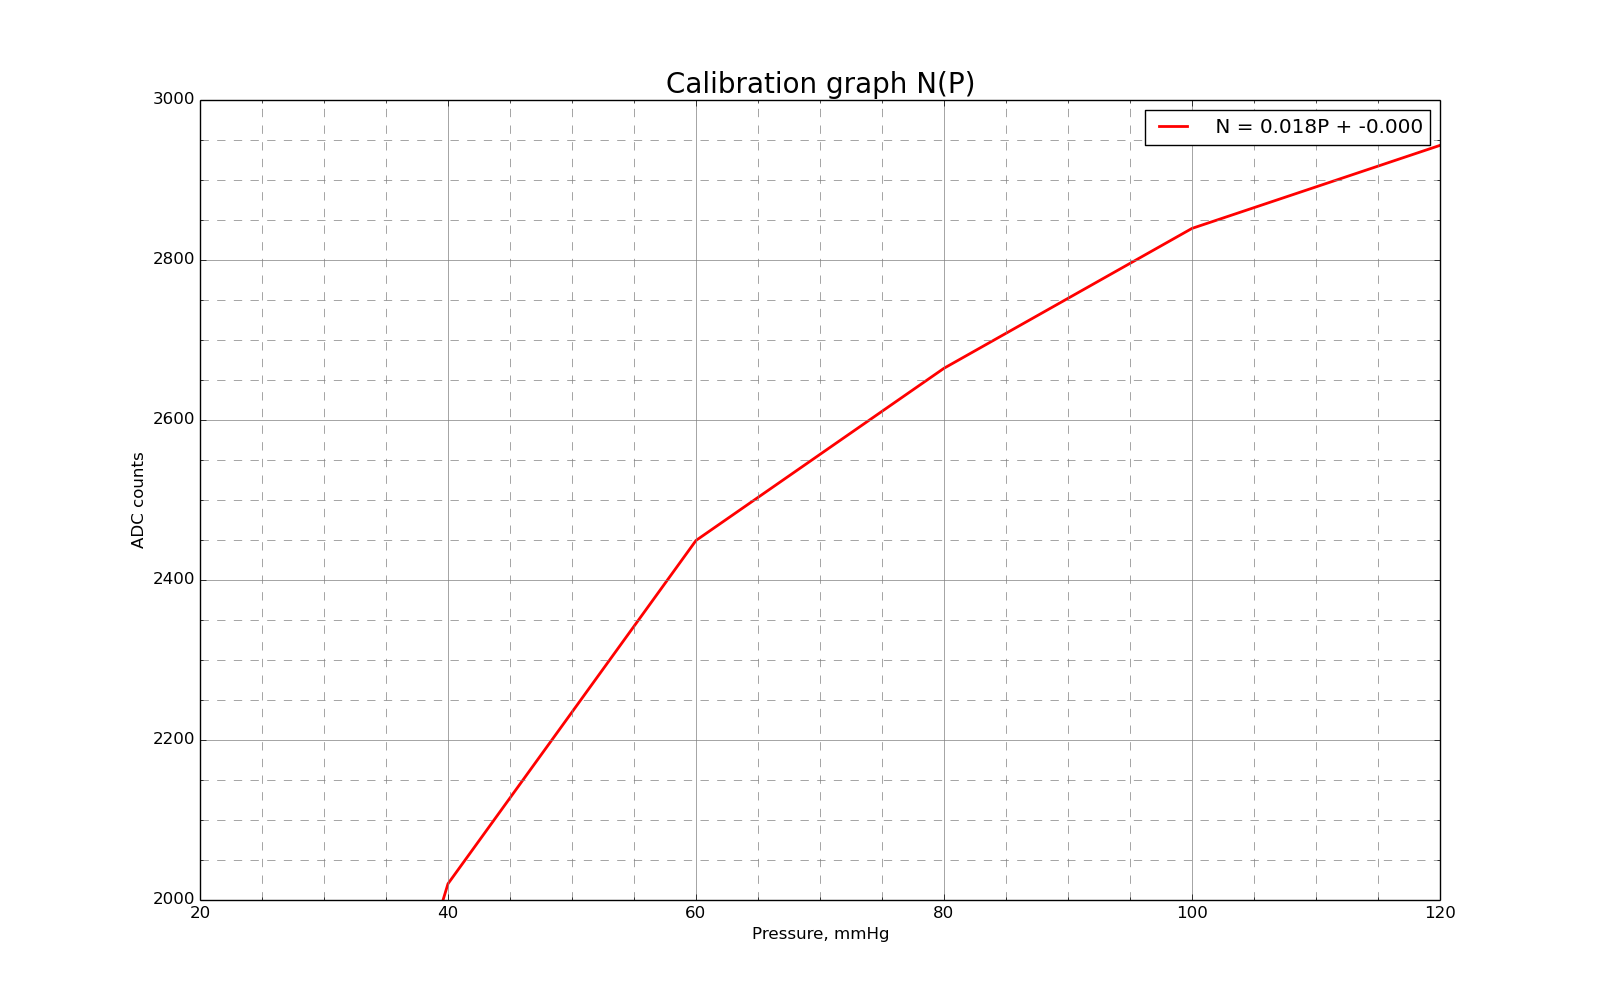
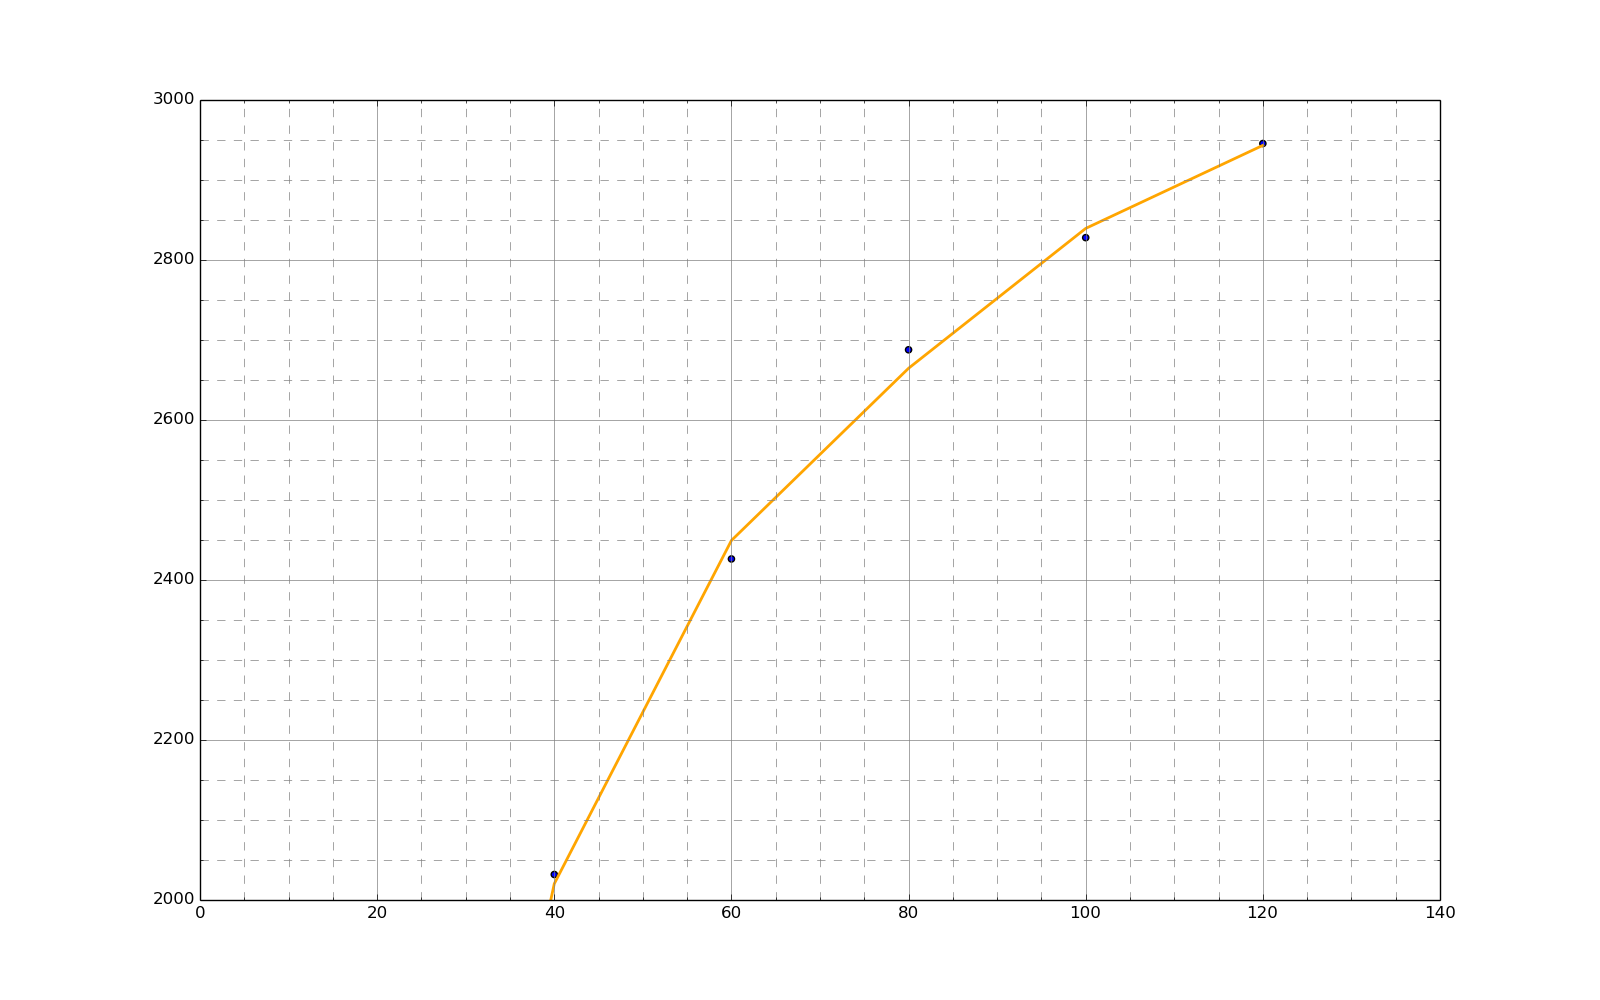
lab3.1

diff --git a/lab3/wave/waveProcessing.py b/lab3/wave/waveProcessing.py
@@ -1,8 +1,6 @@
 import matplotlib.pyplot as plt
 import numpy as np
 
-## CALIBRATION
-
 d20mm = np.loadtxt("wave-starter-kit/data example/20 mm.txt", dtype= int, skiprows=4)
 d40mm = np.loadtxt("wave-starter-kit/data example/40 mm.txt", dtype= int, skiprows=4)
 d60mm = np.loadtxt("wave-starter-kit/data example/60 mm.txt", dtype= int, skiprows=4)
@@ -26,101 +24,32 @@ yfit = np.polyval(plf, data)
 leg = str(" N = {:.3f}P + {:.3f}".format(plf[1], plf[0]))
 
 fig1, ax = plt.subplots(figsize = (16, 10), dpi = 400)
-ax.plot(data, yfit,  label = leg, lw = 2, c = 'red')
-plt.ylabel("ADC counts")
-plt.xlabel("Pressure, mmHg")
-plt.title("Calibration graph N(P)", fontsize = 20)
+ax.plot(data, yfit,  label = leg, lw = 2, c = 'orange')
+ax.scatter(data, meanarr)
+#plt.ylabel("ADC counts")
+#plt.xlabel("Pressure, mmHg")
+#plt.title("Calibration graph N(P)", fontsize = 20)
 ax.set_ylim(2000, 3000)
-ax.legend()
+#ax.legend()
 ax.grid(b=True, which='major', color='grey', linestyle='-')
 ax.grid(b=True, which='minor', color='grey', linestyle='--')
 plt.minorticks_on()
 fig1.savefig("1.png")
 
-'''
-## FITNESS 
+wave = np.loadtxt("wave-starter-kit/data example/wave.txt", dtype= int, skiprows=4)
+dataw = np.linspace(0, 30, len(wave))
 
-dataRawFitness = np.loadtxt("blood/data/fitness.txt", dtype= int)
-dataFit = dataRawFitness/k - y0/k
-time = np.linspace(0, 60, len(dataFit))
-tstep = len(time)/60
-leg1 = str("Pressure = {}/{}".format(147,97))
+plf1 = np.polyfit(dataw, wave, 2)
+yfit1 = np.polyval(plf1, dataw)
 
 fig2, ax = plt.subplots(figsize = (16, 10), dpi = 400)
-ax.plot(time, dataFit, lw = 1, c = 'brown', marker = 'o', markevery = [6*tstep, 41.7*tstep], label = leg1,
-markersize = 15, markerfacecolor = 'red', markeredgecolor = 'red')
-ax.legend()
-plt.ylabel("Pressure, mmHg")
-plt.xlabel("Time, seconds")
-plt.title("Blood pressure after fitness", fontsize = 25)
-ax.text(0.12, 0.75, 'Systole', fontsize = 20, transform=ax.transAxes)
-ax.text(0.82, 0.2, 'Diastole', fontsize = 20, transform=ax.transAxes)
+ax.plot(dataw, wave,lw = 2, c = 'orange')
+#plt.ylabel("ADC counts")
+#plt.xlabel("Pressure, mmHg")
+#plt.title("Calibration graph N(P)", fontsize = 20)
+ax.set_xlim(0, 1.5*dataw)
+#ax.legend()
 ax.grid(b=True, which='major', color='grey', linestyle='-')
 ax.grid(b=True, which='minor', color='grey', linestyle='--')
 plt.minorticks_on()
-
-fig2.savefig("fintess-pressure.png")
-
-##FITNESS PULSE
-
-pplf = np.polyfit(time, dataFit, 2)
-pyfit = np.polyval(pplf, time)
-deltadata1 = pyfit - dataFit
-legp1 = str("The pulse is {:.0f} ".format(60*(16)/(28-18)))
-
-figp2, ax = plt.subplots(figsize = (16, 10), dpi = 400)
-ax.plot(time, deltadata1, lw = 0.5, c = 'orange', label = legp1)
-ax.legend()
-plt.ylabel("Changes of the blood pressure, mmHg")
-plt.xlabel("Time, seconds")
-plt.title("Pulse after fitness", fontsize = 25)
-ax.set_xlim(17, 30)
-ax.set_ylim(-3, 5)
-ax.grid(b=True, which='major', color='grey', linestyle='-')
-ax.grid(b=True, which='minor', color='grey', linestyle='--')
-plt.minorticks_on()
-
-figp2.savefig("fitness-pulse.png") 
-
-## CALM
-
-dataRawCalm = np.loadtxt("blood/data/rest.txt", dtype= int)
-dataCalm = dataRawCalm/k - y0/k
-time = np.linspace(0, 60, len(dataCalm))
-leg2 = str("Pressure = {}/{}".format(137,96))
-
-fig3, ax = plt.subplots(figsize = (16, 10), dpi = 400)
-ax.plot(time, dataCalm, lw = 1, c = 'brown', marker = 'o', markevery = [10.8*tstep, 37.5*tstep], label = leg2,
-markersize = 15, markerfacecolor = 'red', markeredgecolor = 'red')
-ax.legend()
-plt.ylabel("Pressure, mmHg")
-plt.xlabel("Time, seconds")
-plt.title("Blood pressure before fitness", fontsize = 25)
-ax.text(0.18, 0.68, 'Systole', fontsize = 20, transform=ax.transAxes)
-ax.text(0.79, 0.14, 'Diastole', fontsize = 20, transform=ax.transAxes)
-ax.grid(b=True, which='major', color='grey', linestyle='-')
-ax.grid(b=True, which='minor', color='grey', linestyle='--')
-plt.minorticks_on()
-
-fig3.savefig("rest-pressure.png")
-
-##CALM PULSE
-
-cplf = np.polyfit(time, dataCalm, 2)
-cyfit = np.polyval(cplf, time)
-deltadata2 = cyfit - dataCalm
-legp2 = str("The pulse is {:.0f} ".format(60*(12)/(28-18)))
-
-figp3, ax = plt.subplots(figsize = (16, 10), dpi = 400)
-ax.plot(time, deltadata2, lw = 0.5, c = 'orange', label = legp2)
-ax.legend()
-plt.ylabel("Changes of the blood pressure, mmHg")
-plt.xlabel("Time, seconds")
-plt.title("Pulse before fitness", fontsize = 25)
-ax.set_xlim(17, 30)
-ax.set_ylim(-2, 1.5)
-ax.grid(b=True, which='major', color='grey', linestyle='-')
-ax.grid(b=True, which='minor', color='grey', linestyle='--')
-plt.minorticks_on()
-
-figp3.savefig("rest-pulse.png") '''
+fig2.savefig("2.png")
